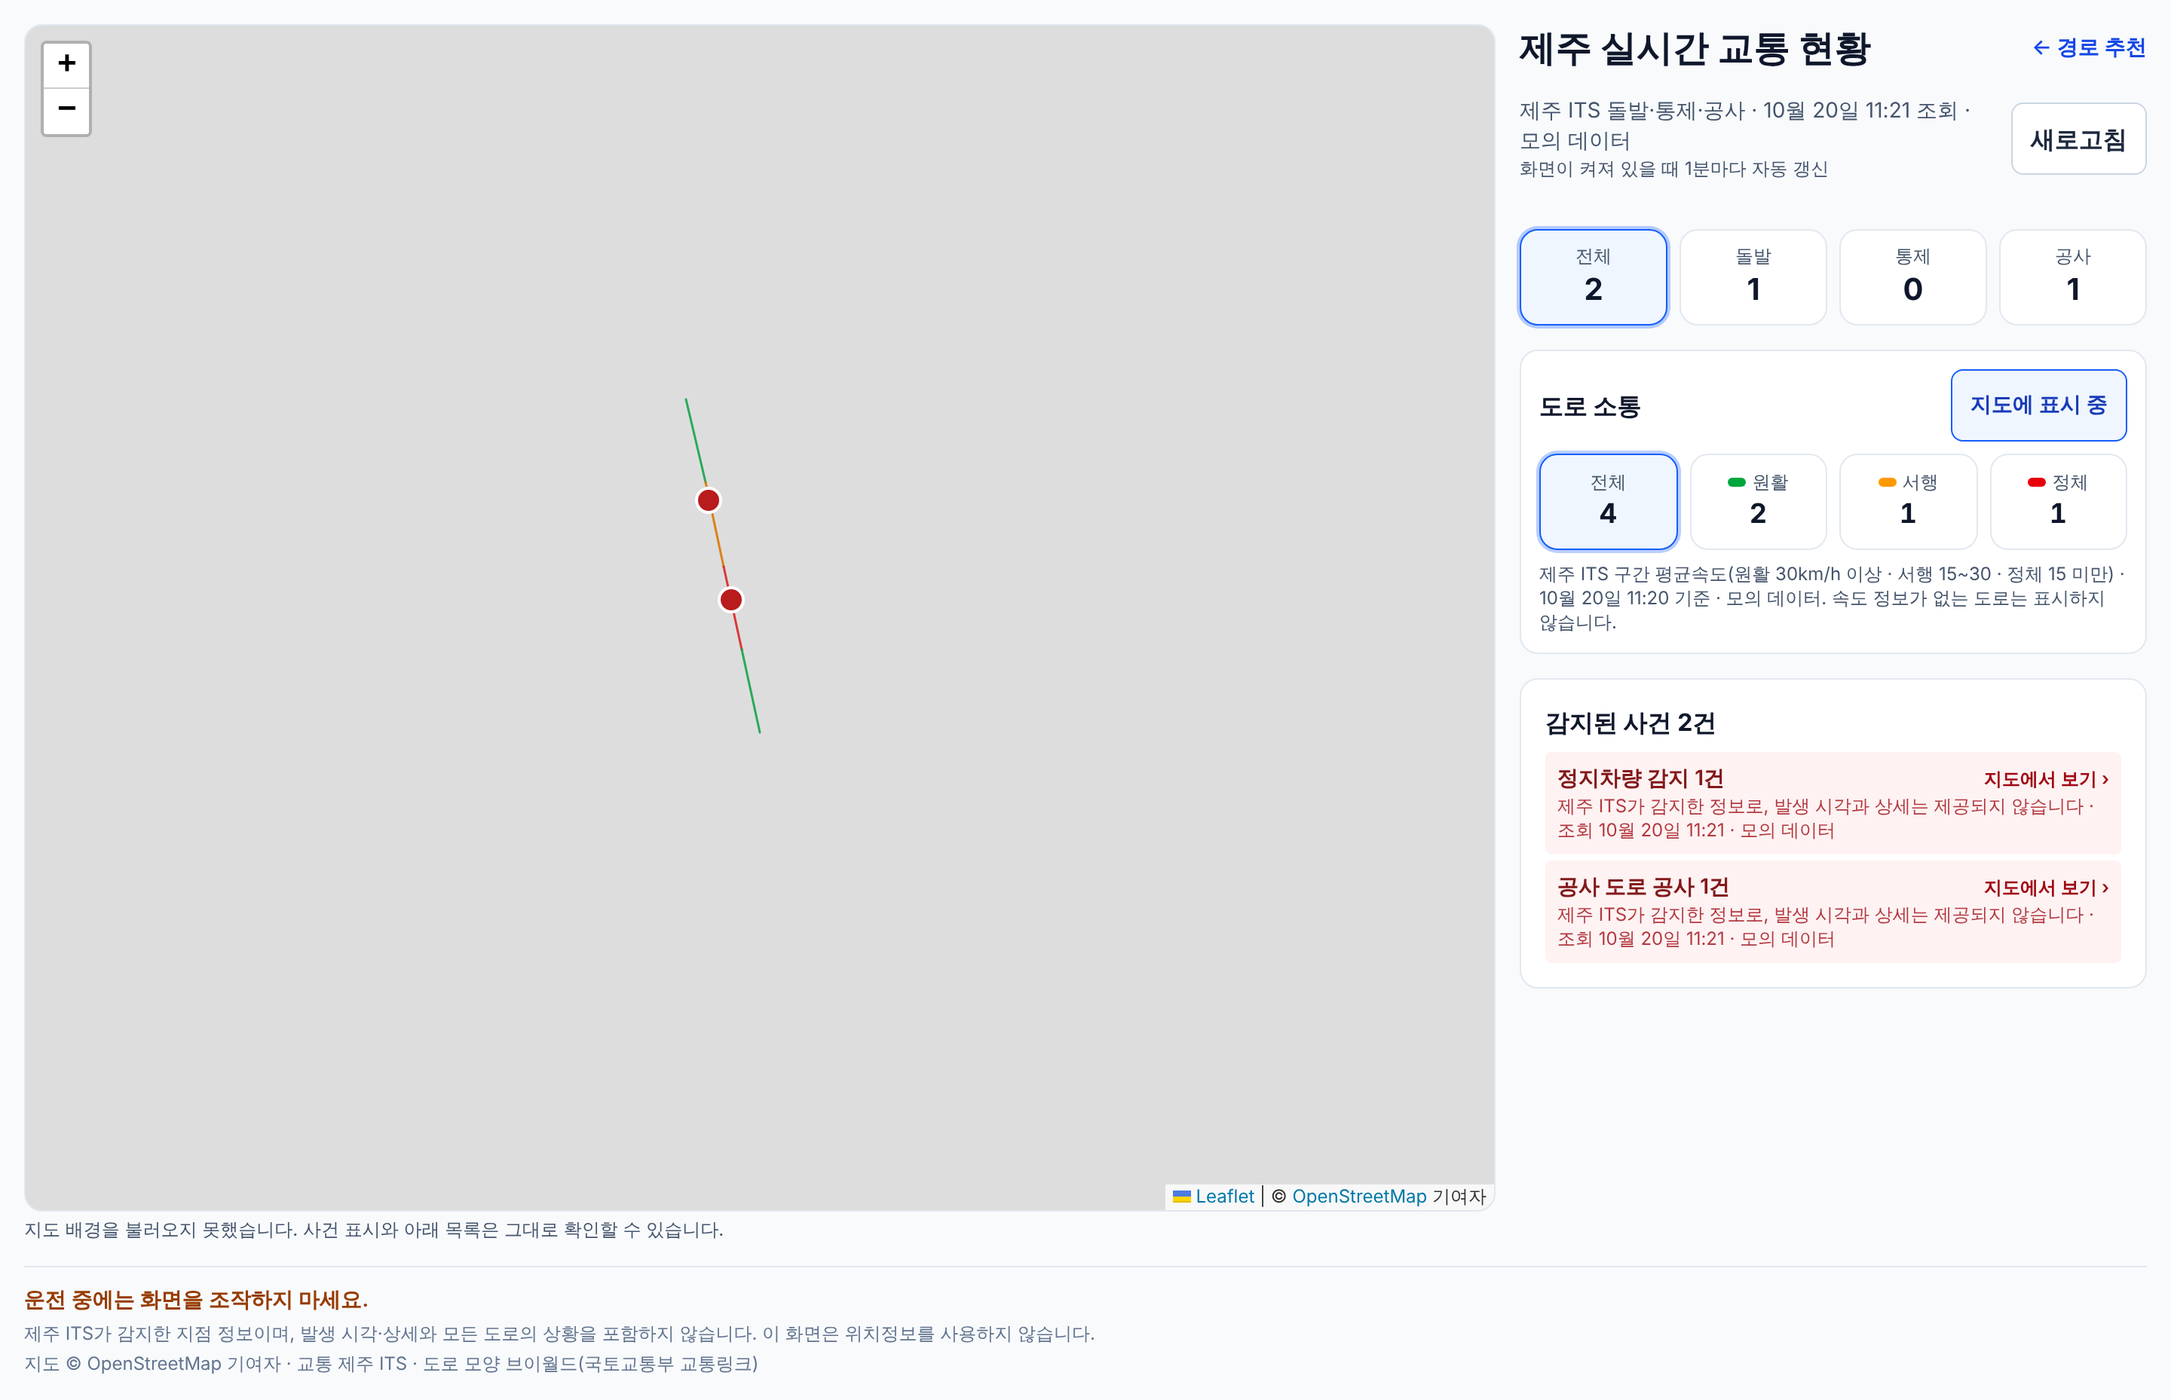
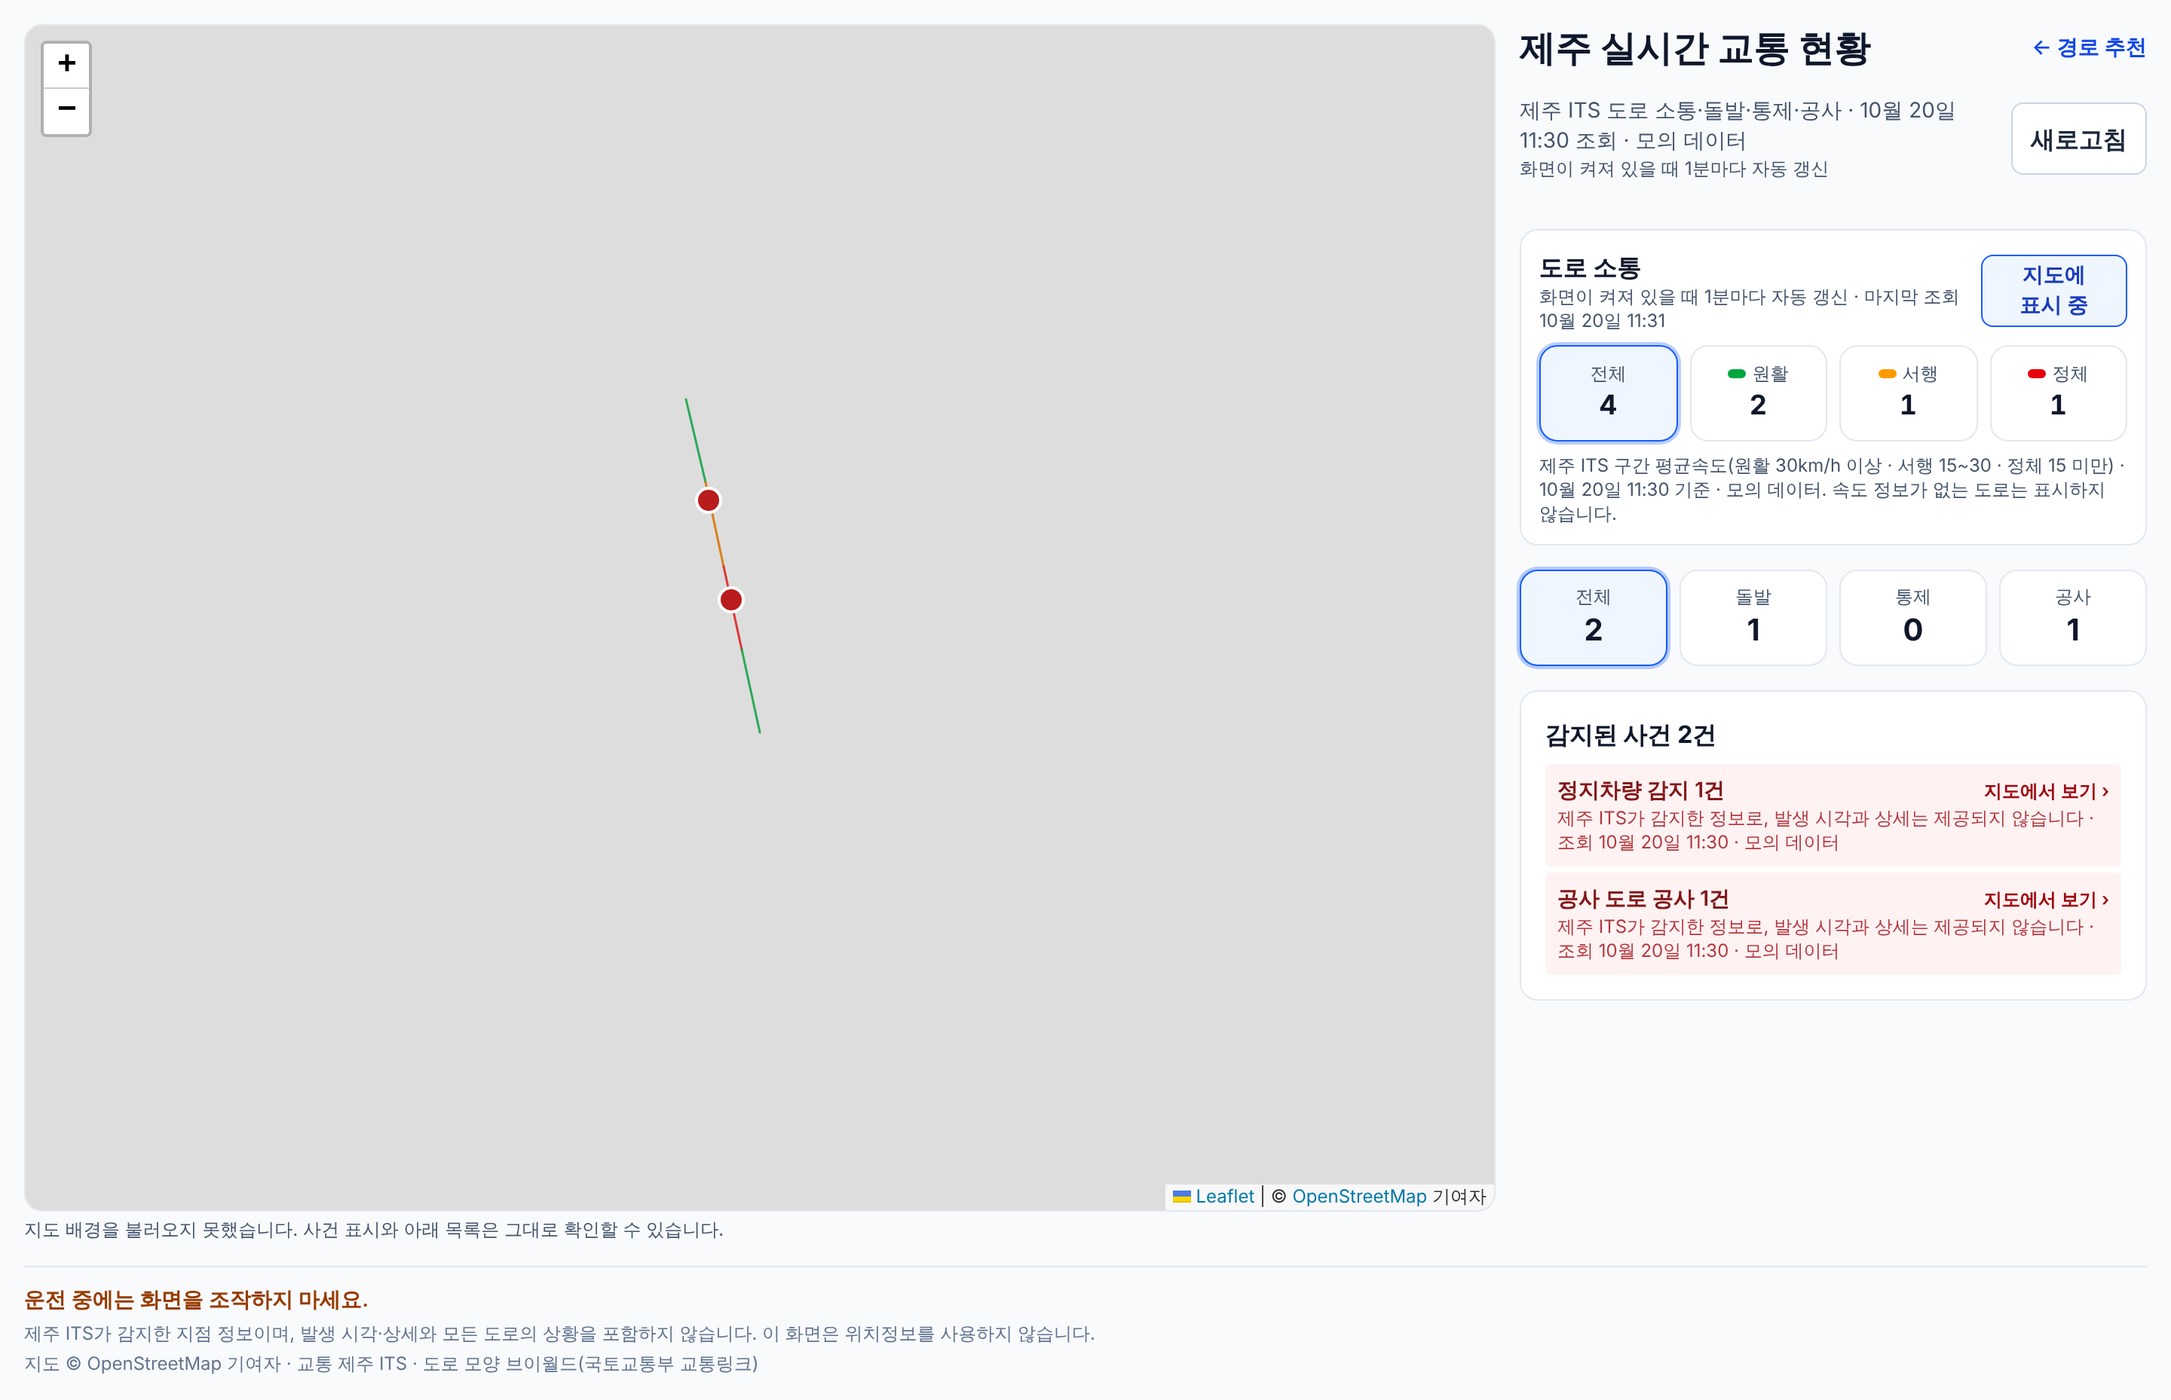
TASK-012: 도로 소통 카드를 사건 카드 위로, 1분 자동 갱신·마지막 조회 시각 표시
사용자: "돌발, 통제, 공사 카드와 도로 소통 카드를 바꾸자. 도로 소통 카드를 위로 올리고 1분마다 자동 갱신"

Claude-Session: https://claude.ai/code/session_01Gur3aDTQeZh8Paf8Wfb4kJ

Changed region(s): [[0.6875, 0.1561, 0.9688, 0.6868], [0.75, 0.0624, 0.9062, 0.0936], [0.6875, 0.0936, 0.75, 0.1249]]

diff --git a/jeju-ai-traffic/web/src/features/traffic/TrafficDashboard.tsx b/jeju-ai-traffic/web/src/features/traffic/TrafficDashboard.tsx
@@ -166,7 +166,7 @@ export function TrafficDashboard() {
   return (
     <div className="mx-auto flex min-h-dvh max-w-md flex-col gap-4 bg-slate-50 p-4 md:max-w-5xl xl:max-w-[96rem]">
       {/*
-        반응형(TASK-012 반응형): 휴대폰은 세로 한 줄. 태블릿(md)은 카드를 넓게, 지도를 크게, 그 아래 도로 소통·사건 목록 2단.
+        반응형(TASK-012 반응형): 휴대폰은 세로 한 줄. 태블릿(md)은 도로 소통·사건 카드를 넓게, 그 아래 큰 지도와 사건 목록.
         PC·아이패드 가로(xl)는 왼쪽에 화면 높이의 지도를 고정하고 오른쪽에 정보 패널.
       */}
       <main className="grid grid-cols-1 gap-4 md:grid-cols-2 xl:grid-cols-[minmax(0,1fr)_26rem] xl:grid-rows-[auto_auto_auto_auto_auto_1fr]">
@@ -178,10 +178,9 @@ export function TrafficDashboard() {
         </div>
         <div className={`flex items-center justify-between gap-2 ${PANEL}`}>
           <p className="text-sm text-slate-600">
-            제주 ITS 돌발·통제·공사
+            제주 ITS 도로 소통·돌발·통제·공사
             {state.snapshot && ` · ${formatKstTime(state.snapshot.observedAt)} 조회`}
             {state.snapshot?.incidents.some((i) => i.source === "mock") && " · 모의 데이터"}
-            <span className="block text-xs">화면이 켜져 있을 때 1분마다 자동 갱신</span>
           </p>
           <button
             type="button"
@@ -207,30 +206,16 @@ export function TrafficDashboard() {
           )}
         </div>
 
-        <ul aria-label="종류별 건수" className={`grid grid-cols-4 gap-2 ${PANEL}`}>
-          {(["all", ...KINDS] as const).map((k) => {
-            const count = k === "all" ? all.length : all.filter((i) => i.kind === k).length;
-            return (
-              <li key={k}>
-                <button
-                  type="button"
-                  onClick={() => chooseKind(k)}
-                  aria-pressed={kind === k}
-                  className={`flex min-h-16 w-full flex-col items-center justify-center rounded-xl border p-2 ${kind === k ? "border-blue-600 bg-blue-50 ring-2 ring-blue-600/30" : "border-slate-200 bg-white"}`}
-                >
-                  <span className="text-xs text-slate-600">{k === "all" ? "전체" : INCIDENT_LABEL[k]}</span>
-                  <span className="text-xl font-bold text-slate-900">{state.snapshot ? count : "–"}</span>
-                </button>
-              </li>
-            );
-          })}
-        </ul>
-
-        <section aria-labelledby="speeds-heading" className="flex flex-col gap-2 self-start rounded-xl border border-slate-200 bg-white p-3 md:order-3 xl:col-start-2">
+        <section aria-labelledby="speeds-heading" className={`flex flex-col gap-2 rounded-xl border border-slate-200 bg-white p-3 ${PANEL}`}>
           <div className="flex items-center justify-between gap-2">
-            <h2 id="speeds-heading" className="font-bold text-slate-900">
-              도로 소통
-            </h2>
+            <div>
+              <h2 id="speeds-heading" className="font-bold text-slate-900">
+                도로 소통
+              </h2>
+              <p className="text-xs text-slate-600">
+                화면이 켜져 있을 때 1분마다 자동 갱신{speeds && ` · 마지막 조회 ${formatKstTime(now.toISOString())}`}
+              </p>
+            </div>
             <button
               type="button"
               onClick={() => setShowSpeeds((v) => !v)}
@@ -314,7 +299,27 @@ export function TrafficDashboard() {
           )}
         </section>
 
-        <div ref={mapBox} className="flex flex-col gap-2 md:order-2 md:col-span-2 xl:sticky xl:top-4 xl:col-span-1 xl:col-start-1 xl:row-span-6 xl:row-start-1 xl:self-start">
+        <ul aria-label="종류별 건수" className={`grid grid-cols-4 gap-2 ${PANEL}`}>
+          {(["all", ...KINDS] as const).map((k) => {
+            const count = k === "all" ? all.length : all.filter((i) => i.kind === k).length;
+            return (
+              <li key={k}>
+                <button
+                  type="button"
+                  onClick={() => chooseKind(k)}
+                  aria-pressed={kind === k}
+                  className={`flex min-h-16 w-full flex-col items-center justify-center rounded-xl border p-2 ${kind === k ? "border-blue-600 bg-blue-50 ring-2 ring-blue-600/30" : "border-slate-200 bg-white"}`}
+                >
+                  <span className="text-xs text-slate-600">{k === "all" ? "전체" : INCIDENT_LABEL[k]}</span>
+                  <span className="text-xl font-bold text-slate-900">{state.snapshot ? count : "–"}</span>
+                </button>
+              </li>
+            );
+          })}
+        </ul>
+
+
+        <div ref={mapBox} className="flex flex-col gap-2 md:col-span-2 xl:sticky xl:top-4 xl:col-span-1 xl:col-start-1 xl:row-span-6 xl:row-start-1 xl:self-start">
           <IncidentMap
             incidents={shown}
             focus={incidentFocus.focus}
@@ -338,7 +343,7 @@ export function TrafficDashboard() {
         </div>
 
         {state.snapshot && groups.length > 0 && (
-          <section aria-labelledby="groups-heading" className="flex flex-col gap-2 self-start rounded-xl border border-slate-200 bg-white pt-4 md:order-4 xl:col-start-2">
+          <section aria-labelledby="groups-heading" className={`flex flex-col gap-2 self-start rounded-xl border border-slate-200 bg-white pt-4 ${PANEL}`}>
             <h2 id="groups-heading" className="px-4 font-bold text-slate-900">
               감지된 사건 {shown.length}건
             </h2>
@@ -346,7 +351,7 @@ export function TrafficDashboard() {
           </section>
         )}
         {state.snapshot && shown.length === 0 && (
-          <p className="self-start md:order-4 xl:col-start-2 rounded-lg bg-slate-100 p-3 text-sm text-slate-700">
+          <p className={`self-start rounded-lg bg-slate-100 p-3 text-sm text-slate-700 ${PANEL}`}>
             {kind === "all" ? "현재 제주 ITS에 감지된 돌발·통제·공사가 없습니다." : `현재 제주 ITS에 감지된 ${INCIDENT_LABEL[kind]} 정보가 없습니다.`} 모든 도로의 사건이
             제공되지는 않으므로, 도로에 이상이 없다는 뜻은 아닙니다.
           </p>

diff --git a/jeju-ai-traffic/tests/e2e/responsive.spec.ts b/jeju-ai-traffic/tests/e2e/responsive.spec.ts
@@ -37,16 +37,19 @@ for (const vp of WIDTHS) {
         expect(m.x + m.width).toBeLessThanOrEqual(p.x);
         expect(m.height).toBeGreaterThan(vp.height * 0.7);
       } else if (vp.width >= 768) {
-        // 지도를 크게(화면 높이 약 60%), 도로 소통·사건 목록은 지도 아래 2단
+        // 도로 소통 카드가 맨 위, 그 아래 사건 카드, 큰 지도(화면 높이 약 60%), 사건 목록
         expect(m.height).toBeGreaterThan(vp.height * 0.5);
         const speeds = (await page.getByRole("region", { name: "도로 소통" }).boundingBox())!;
+        const kinds = (await page.getByRole("list", { name: "종류별 건수" }).boundingBox())!;
         const groups = (await page.getByRole("region", { name: /감지된 사건/ }).boundingBox())!;
-        expect(speeds.y).toBeGreaterThan(m.y + m.height - 1);
-        expect(Math.abs(speeds.y - groups.y)).toBeLessThan(2);
-        expect(groups.x).toBeGreaterThan(speeds.x + speeds.width - 1);
+        expect(speeds.y).toBeLessThan(kinds.y);
+        expect(kinds.y).toBeLessThan(m.y);
+        expect(groups.y).toBeGreaterThan(m.y + m.height - 1);
       } else {
-        // 휴대폰: 세로 한 줄(도로 소통 → 지도)
-        expect(m.y).toBeGreaterThan(p.y);
+        // 휴대폰: 세로 한 줄(도로 소통 → 사건 카드 → 지도)
+        const kinds = (await page.getByRole("list", { name: "종류별 건수" }).boundingBox())!;
+        expect(kinds.y).toBeGreaterThan(p.y);
+        expect(m.y).toBeGreaterThan(kinds.y);
       }
       await shot(page, `TASK-012-05-traffic-${vp.width}`);
     });
@@ -89,8 +92,9 @@ test.describe("넓은 화면 간격", () => {
     await page.goto("/traffic");
     await expect(page.getByRole("list", { name: "구간 소통 건수" }).getByRole("button").first()).toHaveText("전체4");
     const title = (await page.getByRole("heading", { level: 1 }).boundingBox())!;
-    const cards = (await page.getByRole("list", { name: "종류별 건수" }).boundingBox())!;
-    expect(cards.y - (title.y + title.height)).toBeLessThan(120);
+    // 맨 위 카드(도로 소통)는 제목·갱신 안내 바로 아래
+    const first = (await page.getByRole("region", { name: "도로 소통" }).boundingBox())!;
+    expect(first.y - (title.y + title.height)).toBeLessThan(140);
   });
 
   test("경로 추천 왼쪽 출발지는 결과가 길어도 제목 바로 아래", async ({ page }) => {

diff --git a/jeju-ai-traffic/tests/unit/TrafficDashboard.test.tsx b/jeju-ai-traffic/tests/unit/TrafficDashboard.test.tsx
@@ -22,6 +22,7 @@ const SPEEDS: TrafficSpeedsResponse = { status: "ok", observedAt: "2026-10-20T00
 
 let respond: () => Response;
 let speedsRespond: () => Response;
+let speedCalls = 0;
 let calls = 0;
 let visibility: DocumentVisibilityState = "visible";
 
@@ -31,12 +32,16 @@ beforeEach(() => {
   calls = 0;
   respond = () => Response.json(OK);
   speedsRespond = () => Response.json(SPEEDS);
+  speedCalls = 0;
   visibility = "visible";
   vi.spyOn(document, "visibilityState", "get").mockImplementation(() => visibility);
   vi.stubGlobal(
     "fetch",
     vi.fn(async (url: string) => {
-      if (url.startsWith("/api/traffic/speeds")) return speedsRespond();
+      if (url.startsWith("/api/traffic/speeds")) {
+        speedCalls += 1;
+        return speedsRespond();
+      }
       if (url.startsWith("/api/traffic/links")) return Response.json(LINKS);
       calls += 1;
       return respond();
@@ -162,5 +167,17 @@ describe("교통 현황 대시보드 (TASK-012)", () => {
     fireEvent.click(within(counts).getByRole("button", { name: /전체/ }));
     expect(map.getAttribute("data-speed-lines")).toBe("3");
     expect(screen.queryByRole("list", { name: /도로 목록/ })).toBeNull();
+  });
+
+  it("도로 소통 카드가 사건 카드보다 위에 있고, 구간 속도도 1분마다 다시 조회한다", async () => {
+    render(<TrafficDashboard />);
+    const speedsRegion = await screen.findByRole("region", { name: "도로 소통" });
+    await within(speedsRegion).findByText(/마지막 조회/);
+    expect(within(speedsRegion).getByText(/화면이 켜져 있을 때 1분마다 자동 갱신/)).toBeTruthy();
+    const kinds = screen.getByRole("list", { name: "종류별 건수" });
+    expect(speedsRegion.compareDocumentPosition(kinds) & Node.DOCUMENT_POSITION_FOLLOWING).toBeTruthy();
+    expect(speedCalls).toBe(1);
+    await act(async () => vi.advanceTimersByTime(REFRESH_MS));
+    expect(speedCalls).toBe(2);
   });
 });

diff --git a/jeju-ai-traffic/reports/TASK-012-RESULT.md b/jeju-ai-traffic/reports/TASK-012-RESULT.md
@@ -69,10 +69,16 @@ PRD는 변경하지 않았다.
 - 목록에서 도로·사건을 누를 때 지도가 이미 화면에 다 보이면 스크롤하지 않는다.
 - 확인: 390·820·1180·1440px에서 두 화면 모두 가로 스크롤 없음·배치 위치를 e2e로 확인(8건) + 넓은 화면 간격 2건(오른쪽 패널이 지도 높이에 맞춰 벌어지지 않음, 결과가 길어도 출발지가 제목 바로 아래 — 수정 전 재현 확인). 캡처 `TASK-012-05-{traffic,route}-{390,820,1180,1440}.png`.
 
+## 2-4. 카드 순서 변경 (2026-10-20)
+- 사용자 지시: "돌발, 통제, 공사 카드와 도로 소통 카드를 바꾸자. 도로 소통 카드를 위로 올리고 1분마다 자동 갱신".
+- **도로 소통 카드를 맨 위**(제목·새로고침 바로 아래), 그 아래 돌발·통제·공사 카드 → 지도 → 감지된 사건 목록. 태블릿은 카드 두 줄을 넓게 쓰고 그 아래 큰 지도·사건 목록, PC는 오른쪽 패널에서 같은 순서.
+- **1분 자동 갱신**: 구간 속도는 원래 사건 정보와 함께 1분마다 다시 조회하고 있었다. 도로 소통 카드에 "화면이 켜져 있을 때 1분마다 자동 갱신 · 마지막 조회 HH:MM"을 표시하고, 제목 아래의 같은 문구는 뺐다. 제주 ITS 원천은 약 5분 단위라 "N시 N분 기준"은 5분마다 바뀐다.
+- 테스트: 카드 순서·1분마다 구간 속도 재조회 단위 테스트 1건, 반응형 e2e 배치 기대값 갱신.
+
 ## 3. 실행한 테스트·빌드와 결과
 | 명령 | 결과 |
 |---|---|
-| `npm run check:release` | 통과 — 단위 **248건**, 비밀정보 의심 문자열 없음, 취약점 0건 |
+| `npm run check:release` | 통과 — 단위 **249건**, 비밀정보 의심 문자열 없음, 취약점 0건 |
 | `npm run test:e2e` | **36건** 통과 (반응형 10건 포함; 대시보드 3건: 링크 이동·건수·구간 소통 카드(모의 4구간)·정체 카드→도로 목록→도로 강조→전체 보기·지점 표시·필터, 한도 안내, 1분 자동 갱신) |
 
 신규 단위 테스트: 처리기 6건(전체 사건·no-store, 60초 캐시·사용량 3, 한도 quotaBlocked·재사용 시각·호출 0, 장애 unavailable, 분당 21번째 429, 공급자 선택), 화면 6건(건수·묶음·링크·고지, 필터·0건 안내, 지점 표시, 1분 갱신·숨김 중 멈춤·복귀 시 조회·실패 시 마지막 결과 유지, 한도 안내, 0건 안내).

diff --git a/jeju-ai-traffic/DECISIONS.md b/jeju-ai-traffic/DECISIONS.md
@@ -157,3 +157,4 @@
 | 2026-10-20 | TASK-012 | 범위 변경 | "계획 승인: TASK-012 반응형 1. (a) 2. (a) 3. 승인" | 결과 검토 → 진행 중 | 반응형: 교통 현황·경로 추천 모두. 넓은 화면은 지도를 크게 한쪽에 고정하고 반대쪽에 정보 패널. 390·820·1180·1440px 캡처, 가로 스크롤 없음 e2e |
 | 2026-10-20 | TASK-012 | 상태 | (반응형 구현, 보고서 갱신) | 진행 중 → 결과 검토 | 교통 현황·경로 추천 반응형, 4개 폭 e2e·캡처. 아이패드 세로(768~1023px) 경로 화면은 결과가 한 줄(계획 표와 차이, 보고서 기록) |
 | 2026-10-20 | — | 기타 | "main 반영" | — | 작업 브랜치 `claude/adoring-sagan-harjwg`를 main에 fast-forward로 반영(TASK-012 교통 현황 대시보드 `/traffic`: 사건 지도·구간 속도 색칠·도로 소통 카드·도로명별 목록·반응형). Production 자동 배포. 임시 확인 함수·워크플로 없음. **TASK-012는 결과 검토 상태 유지**(`완료 승인: TASK-012` 미수신). 반응형 배치는 실기기 미확인 상태로 반영 |
+| 2026-10-20 | TASK-012 | 사용자 지시 | "돌발, 통제, 공사 카드와 도로 소통 카드를 바꾸자. 도로 소통 카드를 위로 올리고 1분마다 자동 갱신" | 결과 검토 유지 | 도로 소통 카드를 사건 카드 위로 이동, 카드에 1분 자동 갱신·마지막 조회 시각 표시(구간 속도는 기존에도 1분마다 재조회). 작은 화면 배치 변경이라 별도 계획 없이 반영 |
